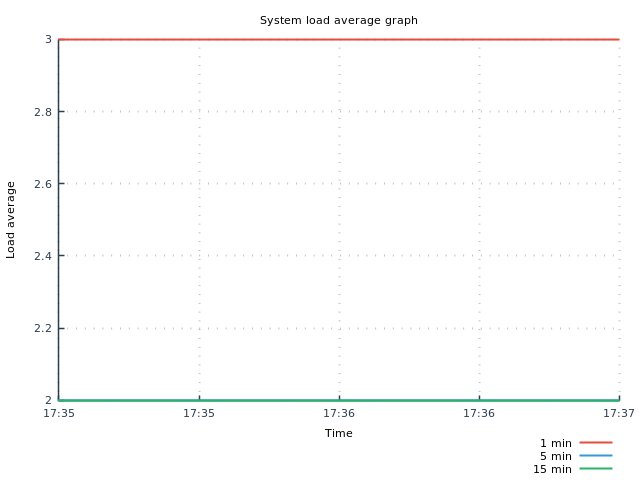
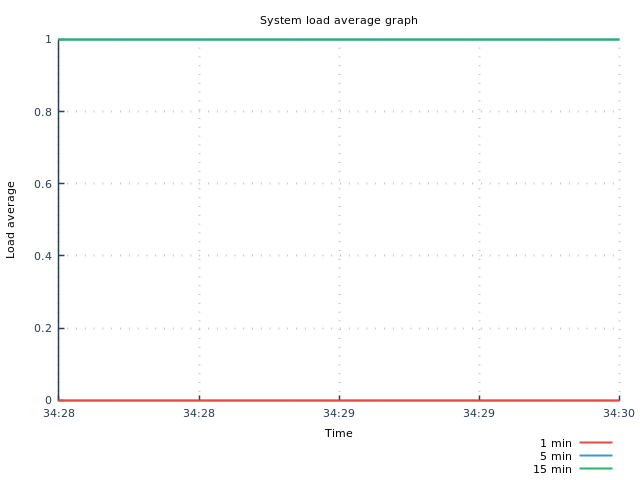
update

Changed region(s): [[0.0625, 0.8125, 1.0, 0.875], [0.0625, 0.0625, 0.9688, 0.0938]]

diff --git a/src/main/scala/jvm/test_jvm.py b/src/main/scala/jvm/test_jvm.py
@@ -21,6 +21,8 @@ parser.add_option("-z", "--ssh", default="")
 parser.add_option("-d", "--testDurationSec", default="20")
 parser.add_option("-w", "--writePerSecPerQuery", default="1000")
 parser.add_option("-r", "--readPerSecPerQuery", default="1000")
+parser.add_option("-j", "--oracleJdkPath", default="/opt/jdk1.8.0_161/bin/java")
+parser.add_option("-a", "--zingJdkPath", default="/opt/zing/zing-jdk1.8.0-18.02.0.0-4-x86_64/bin/java")
 
 
 (options, args) = parser.parse_args()
@@ -45,6 +47,11 @@ class Test:
         self.enableNuma()
         self.enableHsperfdata()
         self.setXss(xss)
+        self.java = "alternatives --set java "+options.oracleJdkPath
+
+    def useZing(self):
+        self.java = "alternatives --set java "+options.zingJdkPath
+
 
     def setXmn(self, xmn):
         self.params["xmn"] = "-Xmn"+xmn
@@ -106,7 +113,7 @@ class Test:
         print("killing DSE:"+command)
         subprocess.call(command, shell=True, stdout=subprocess.PIPE, stderr=subprocess.STDOUT)
         time.sleep(1)
-        command = self.sshCommand(options.dseFolder+"/bin/dse cassandra -R")
+        command = self.sshCommand(self.java+" && "+options.dseFolder+"/bin/dse cassandra -R")
         print("Restarting DSE"+command)
         subprocess.Popen(command, shell=True, stdout=subprocess.PIPE, stderr=subprocess.STDOUT)
         print("Sleeping 30sec")
@@ -133,16 +140,21 @@ class Test:
                 self.resetDSE(count+1)
 
 
+
     def startGatlingTest(self):
         print("Warming up jvm, (10 sec gatling stress)")
-        process = subprocess.Popen("""export JAVA_OPTS="-DcontactPoint="""+options.dseHost+""" -DtestDurationSec=10 -DwritePerSecPerQuery=1000 -DreadPerSecPerQuery=1000" && """+options.gatlingFolder+"""/bin/gatling.sh -m -nr""", shell=True, stdout=subprocess.PIPE, stderr=subprocess.STDOUT)
+        process = subprocess.Popen("""alternatives --set java """+options.oracleJdkPath+""" && export JAVA_OPTS="-DcontactPoint="""+options.dseHost+""" -DtestDurationSec=10 -DwritePerSecPerQuery=1000 -DreadPerSecPerQuery=1000" && """+options.gatlingFolder+"""/bin/gatling.sh -m -nr""", shell=True, stdout=subprocess.PIPE, stderr=subprocess.STDOUT)
         process.wait()
         time.sleep(2)
         print("Running "+self.name)
-        command = """export JAVA_OPTS="-DcontactPoint=%s -DtestDurationSec=%d -DwritePerSecPerQuery=%d -DreadPerSecPerQuery=%d" && %s/bin/gatling.sh -m -rf %s -on %s""" % (options.dseHost, testDurationSec, writePerSecPerQuery, readPerSecPerQuery, options.gatlingFolder, outputFolder, self.name)
+        command = """alternatives --set java """+options.oracleJdkPath+""" && export JAVA_OPTS="-DcontactPoint=%s -DtestDurationSec=%d -DwritePerSecPerQuery=%d -DreadPerSecPerQuery=%d" && %s/bin/gatling.sh -m -rf %s -on %s""" % (options.dseHost, testDurationSec, writePerSecPerQuery, readPerSecPerQuery, options.gatlingFolder, outputFolder, self.name)
         print(command)
-        process = subprocess.Popen(command, shell=True, stdout=subprocess.PIPE, stderr=subprocess.STDOUT)
-        process.wait()
+        process_injector = subprocess.Popen(command, shell=True, stdout=subprocess.PIPE, stderr=subprocess.STDOUT)
+        command_sar = "sarviewer-master/data_collector.sh -n %d -i 1 && cp cp -r sarviewer-master/graphs/* %s " % (testDurationSec + 20, outputFolder+"/"+self.name+"-sar")
+        print command_sar
+        process_sar = subprocess.Popen(command_sar, shell=True, stdout=subprocess.PIPE, stderr=subprocess.STDOUT)
+        process_injector.wait()
+        process_sar.wait()
         print("test done")
 
     def test(self):
